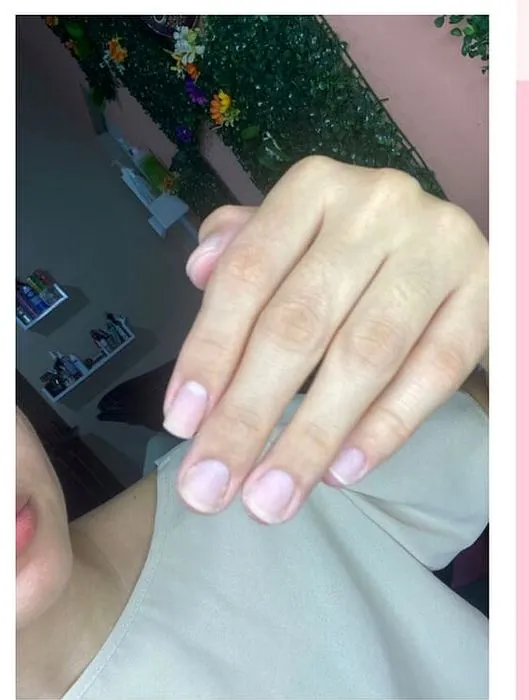
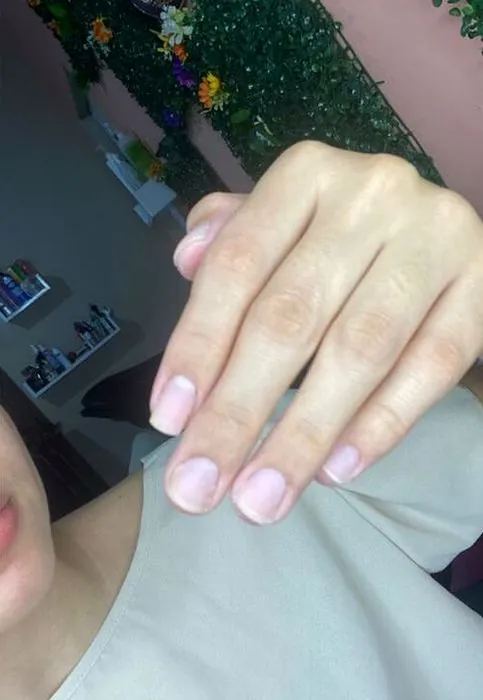
Crop two nail photos to measured bounds; correct stale research claims
The keratin-on-natural-nail before and after images were cropped from an
Instagram poster by eye, and both carried slivers of the poster: first a
pink strip, then after one adjustment, white polaroid frame on both
sides. Measured the photo boundaries in the 1350x1688 source by
classifying pixels along rows and columns as frame, background or
content (left photo x .094-.468, right x .530-.906, both y .345-.777),
then cropped inside them with a small inset. All four edges of both
images now sample as photo content. Width and height attributes on the
nails page updated to match. keratina-una also feeds the home gallery,
the Instagram strip and the lightbox.

MARKET-RESEARCH.md had four statements the newer research contradicts
or never verified:
- a Google profile "takes 20 minutes": it is about four hours plus up to
  a week for video verification
- "ask for a review after every keratina": Google's 2026 policy forbids
  asking on the premises; ask by WhatsApp after she leaves
- "nail art is already being done": never verified, now conditional
- women-only "leads the site": it now sits in the hero and has its own
  section, stated once

diff --git a/unas/index.html b/unas/index.html
@@ -167,11 +167,11 @@
           <div class="bcard__b"><h4>Esmaltado permanente</h4><p>Color parejo que aguanta semanas.</p></div>
         </article>
         <article class="bcard">
-          <div class="bcard__img"><picture><source srcset="../assets/img/work/una-antes-sm.webp" type="image/webp"><img src="../assets/img/work/una-antes-sm.jpg" alt="Uña natural antes del tratamiento de keratina" loading="lazy" width="564" height="746"></picture></div>
+          <div class="bcard__img"><picture><source srcset="../assets/img/work/una-antes-sm.webp" type="image/webp"><img src="../assets/img/work/una-antes-sm.jpg" alt="Uña natural antes del tratamiento de keratina" loading="lazy" width="483" height="700"></picture></div>
           <div class="bcard__b"><h4>Keratina en uña: antes</h4><p>La uña natural, sin tratamiento.</p></div>
         </article>
         <article class="bcard">
-          <div class="bcard__img"><picture><source srcset="../assets/img/work/keratina-una-sm.webp" type="image/webp"><img src="../assets/img/work/keratina-una-sm.jpg" alt="La misma uña después de la keratina en uña natural con esmaltado permanente" loading="lazy" width="548" height="746"></picture></div>
+          <div class="bcard__img"><picture><source srcset="../assets/img/work/keratina-una-sm.webp" type="image/webp"><img src="../assets/img/work/keratina-una-sm.jpg" alt="La misma uña después de la keratina en uña natural con esmaltado permanente" loading="lazy" width="486" height="700"></picture></div>
           <div class="bcard__b"><h4>Keratina en uña: después</h4><p>Más fuerte y con esmaltado permanente.</p></div>
         </article>
       </div>

diff --git a/MARKET-RESEARCH.md b/MARKET-RESEARCH.md
@@ -90,21 +90,21 @@ There are roughly **60+ beauty salons in La Ceiba**. Almost none of them have a 
 |---|---|---|---|
 | Corte de cabello | L.80 (promo) | **L.150** as the standing price | L.80 was a one-Saturday promo. L.150 is still under LOTUS and inside the national range. Keep L.80 as an occasional promo, not the shelf price. |
 | Keratina Smooth | L.1,000 flat | **L.1,000 short / L.1,400 medium / L.1,800 long** | Three hours of chair time is the same whatever the length, but product cost is not. Length tiers are standard and stop the long-hair clients from being subsidised. |
-| Uñas acrílicas | L.250 | **L.300**, with designs from **+L.50** | Sits at the bottom of the L.250–600 range. Nail art is already being done — it should be a line item. |
+| Uñas acrílicas | L.250 | **L.300**, with designs from **+L.50** | Sits at the bottom of the L.250–600 range. If nail art is being done, it should be its own line item rather than folded in. |
 | Pedicura spa | not published | **L.400**, express **L.250** | LOTUS charges L.550. L.400 is right for the corridor. |
 | Add-ons | none | **+L.100** each: masaje capilar, parafina, ampolla, ritual de aceite | Pure margin on time already being spent. |
 | Paquete Novia / Quinceañera | none | **from L.2,500** (maquillaje + peinado + uñas + prueba) | The single highest-value booking a salon in this corridor can take, and nobody nearby is packaging it. |
 
 ### Positioning
 
-- **"Solo para mujeres" is the differentiator.** No competitor in La Ceiba advertises a women-only space. In a corridor town it is a real reason to drive 20 minutes. It leads the site.
+- **"Solo para mujeres" is the differentiator.** No competitor in La Ceiba advertises a women-only space. In a corridor town it is a real reason to drive 20 minutes. On the site it sits in the hero and has its own section, stated once and concretely, per BRAND.md §7.
 - **Own "El Pino" and "camino a Tela".** Competing for "salón de belleza La Ceiba" means fighting 60 salons. Competing for the CA-13 corridor between La Ceiba and Tela means fighting nobody, and that corridor has traffic all day.
 - **The 2×1 referral is the best asset they already have.** It should be on the site, in the Instagram bio, and said out loud at the chair.
 
 ### Quick wins
 
-1. **Reviews.** Laila's has no Google Business Profile and 21 Instagram followers. A Google profile is free, takes 20 minutes, and is the single biggest lever available — every La Ceiba competitor is discoverable in Maps and Laila's is not.
-2. **Ask for a review after every keratina.** Ten reviews would put them ahead of most of the neighbourhood salons in the directories.
+1. **Reviews.** Laila's has no Google Business Profile and 21 Instagram followers. A Google profile is free, takes about four hours plus up to a week for video verification, and is the single biggest lever available (setup in GROWTH.md §3) — every La Ceiba competitor is discoverable in Maps and Laila's is not.
+2. **Ask for a review after every keratina, by WhatsApp a few hours after she leaves.** Google's 2026 policy prohibits asking on the premises; see GROWTH.md §3. Ten reviews would put them ahead of most of the neighbourhood salons in the directories.
 3. **Post the price list as a pinned Instagram highlight**, and link the site from the bio.
 4. **Photograph the work properly.** The single most valuable thing for this site is more before/after photos. Two per week, same corner, same light.
 5. **Confirm and publish opening hours.** No competitor's hours are findable online either, so being the one salon whose hours are on Google is a genuine advantage.
